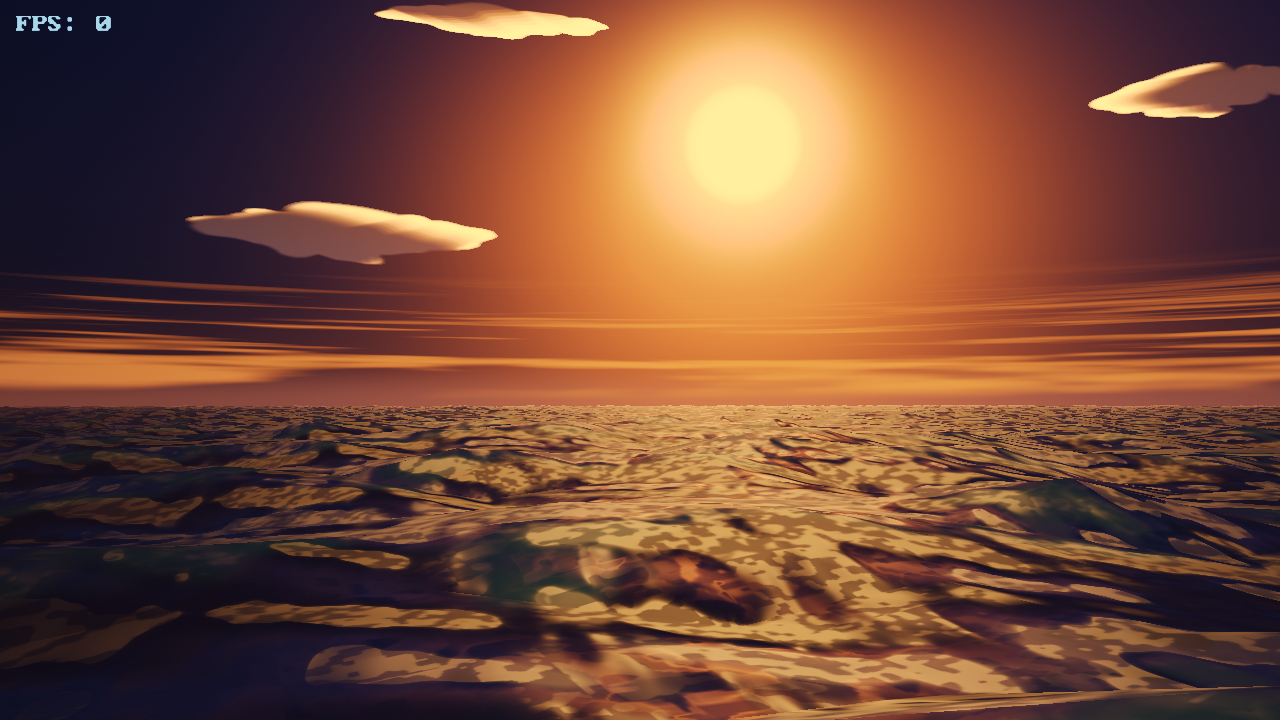
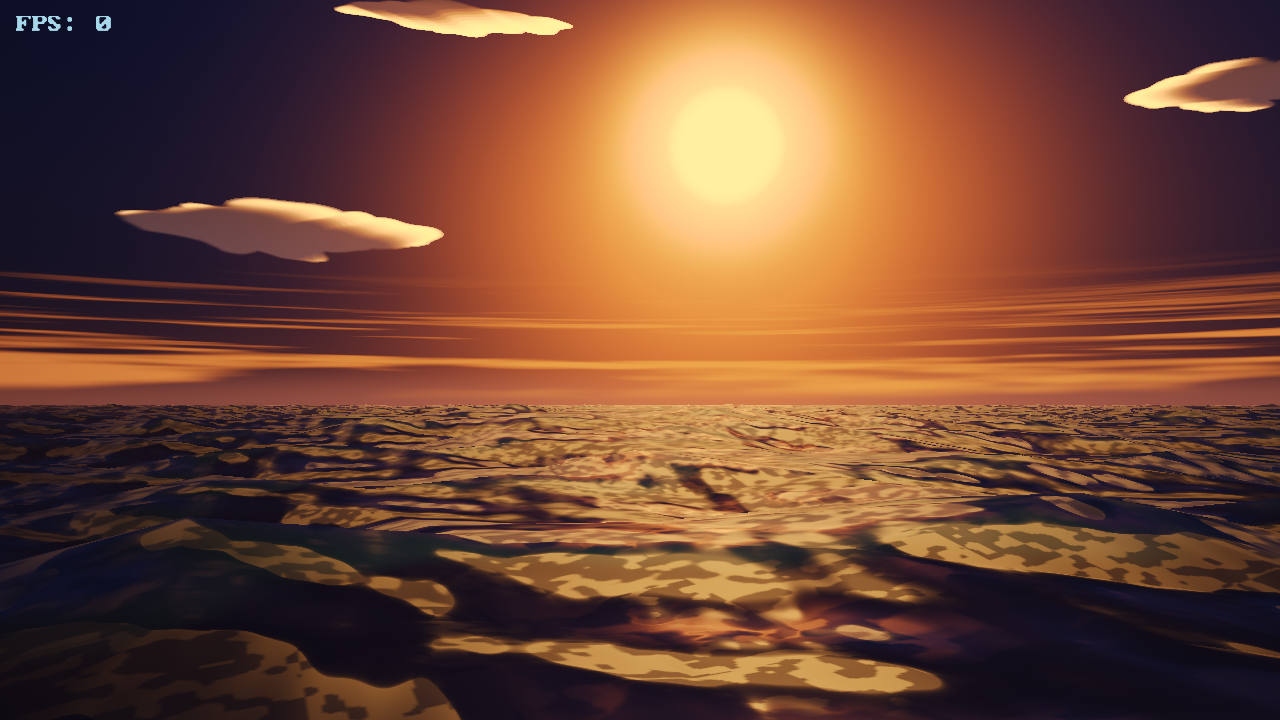
Narrow the sunlit sea column, and make the binary report what it is presenting
The reported sunlit patches were "too big", and Win+PrtScr was still returning
black after P24's borderless-fullscreen change.

The width complaint is a real, measurable defect: sunAlign is a cosine and the
warm gate was cos^3, which still returns half its value 37 degrees off-axis,
while offSun treated everything inside 63 degrees as fully sun-facing -- most of
the sea. Moving to cos^8 and a later off-sun transition takes the lit band from
22.1% to 18.6% of frame width with the sky control unmoved.

The capture problem is not solved by another guess. P24's SDL theory was never
verified and it has now failed once, so instead every scene prints the mode it
is actually presenting and main() prints a build id. The shaders load at
runtime from folders beside the exe, so a current exe next to a stale shader
directory renders a mixture of two builds -- which is also the most consistent
explanation for the reported frame, since no shader generation in this history
reproduces it. README now documents the remaining Windows cause, fullscreen
optimizations, and leads with the capture path that cannot fail.

diff --git a/REFERENCES.md b/REFERENCES.md
@@ -179,6 +179,102 @@ Realism takeaways applied:
   glazing bars over them. Emissive geometry is only believable if the frame behind it still exists —
   the bars and the sill are what stop a lit pane reading as a sticker.
 
+## BUILD-P25: the sunlit zone was a third of the sea wide, and the capture problem was not the one I thought
+
+Two reports, both second-hand this time: the sunlit water "still looks wrong,
+and the patches are too big", and Win+PrtScr on the user's machine *still*
+returns black after the P24 borderless-fullscreen change.
+
+### What I could not reproduce, stated first because it bounds everything else
+
+The reported frame shows large, hard-edged tan plates with near-white interiors
+covering roughly half the sea, right out to the frame edges. I could not
+produce that image from any shader generation in this repository:
+
+| shader version | sun column max luma | lit pixels in the top 10% of range | those pixels' std |
+| --- | --- | --- | --- |
+| `282ce90` (the "CT sparkles read as glitches" era) | 0.6988 | 0.43% | 0.0110 |
+| `b00d5de` (pre-P23) | 0.7580 | 0.51% | 0.0082 |
+| `7bf9113` (P23+P24, previous build) | 0.7622 | 0.57% | 0.0077 |
+| reported frame | near white | a large fraction | — |
+
+In all three of my renders only a few tenths of one percent of the sun column
+sits in its top decile, and those pixels are spread smoothly. The reported
+image is dominated by them. Resolution is not the explanation: rendered at
+1920x1080 (the size borderless fullscreen actually gives on a desktop) the lit
+fraction is 25.0% and the sun column max is 0.7832 — statistically the same as
+1280x720.
+
+So the reported frame is not something this repository produces at that moment
+in the animation. The most likely explanations, in order: the running exe sits
+beside a shader folder from an unrelated build; or the frame is from a
+different point in the 45 s animation than anything sampled here.
+
+That is exactly why this build adds the two startup lines in "the capture
+problem" below. Diagnosing a mixed exe/shader pair from pixels alone is not
+possible, and I should not have written P24's conclusion as though it were
+settled when it rested on the same unverified assumption.
+
+### The lit zone WAS genuinely too wide — that part is fixed
+
+Independent of the reproduction failure, the gate controlling how much of the
+sea receives warm sun light was too broad, and that is measurable directly from
+the shader rather than from the frame:
+
+    float sunAlign = max(dot(dirXZ, sunXZ), 0.0);   // cosine of the horizontal
+    float warmGate = pow(sunAlign, 3.0);            // angle to the sun
+    float offSun   = 1.0 - smoothstep(0.08, 0.45, sunAlign);
+
+`cos^3` still returns 0.5 at **37 degrees** off-axis, and `offSun` does not
+reach zero until **63 degrees**. With a ~75 degree horizontal field of view
+that is most of the sea being treated as sun-facing, which is precisely the
+"the lit zone is too big" complaint. Now `pow(sunAlign, 8.0)` and
+`smoothstep(0.15, 0.62, ...)` — same falloff shape, half-power point moved from
+37 degrees to about 25, and the off-sun transition starts later so the flanks
+of the column darken rather than staying lit.
+
+Measured, three phases each (t = 32/36/40), `scripts/p25agg.py`:
+
+| metric | P24 | P25 | delta |
+| --- | --- | --- | --- |
+| continuous lit band | 22.11% of frame width | 18.64% | **-15.7%** |
+| whole-water mean luma | 0.2560 | 0.2500 | -2.6% |
+| sky mean luma (control) | 0.3534 | 0.3538 | **+0.1%** |
+
+The column narrows by about a sixth and the sea loses 2.6% of its mean
+brightness, with the sky control unmoved — the light was taken off the flanks,
+not off the whole sea.
+
+### The capture problem: stop guessing, make the binary report itself
+
+P24's answer was a theory about what SDL does on Windows. It was not verified
+(there is no real fullscreen or DWM in the test environment, and the new code
+sits behind `if (!gWindowedMode)` so no headless render exercises it) and the
+user still gets a black capture, so the theory is not sufficient. Two things
+are added instead of a third guess:
+
+- Every scene prints what it is actually presenting, at startup:
+
+      Display: borderless fullscreen 1920x1080 | capture with Win+PrtScr, or --screenshot FILE
+
+  `windowed` there means the user passed `--windowed`/`--width` or is running a
+  different build, and that answers the question before any pixels are
+  compared.
+- `main()` prints `ElectroBench build P25 (2026-10-05)`. **The shaders load at
+  runtime from `shaders/pole`, `shaders/pool` and `shaders/ps14` next to the
+  exe**, so a current exe beside a stale shader folder renders a mixture of two
+  builds. That is the failure mode most consistent with "my frame looks nothing
+  like yours", and one line at startup settles which half is out of date.
+
+The README now also documents the remaining Windows-specific cause that is
+independent of SDL: **Settings → System → Display → Graphics → Options →
+Fullscreen optimizations = Off**. Windows still gives some "borderless" OpenGL
+apps a private swap chain, and the print-screen hotkey captures a surface with
+nothing composited into it.
+
+`--screenshot FILE` remains the path that cannot fail this way — it reads the
+framebuffer directly and never involves the compositor.
+
 ## BUILD-P24: the sunlit sea was a point-normal sample of a facet distribution, and Win+PrtScr caught a black screen
 
 The reported bug: "the zones lit up by the sun on the water are like noise" —

diff --git a/README.md b/README.md
@@ -193,20 +193,33 @@ make
 Controls : `F` toggles the automatic camera, long-click + move orbits, mouse wheel zooms, `R` re-drops
 the whole fleet, `ESC` quits.
 
-**Taking a screenshot of the running bench on Windows.** The bench presents
-borderless fullscreen by default — it fills the screen but stays a normal
-top-level window — so `Win`+`PrtScr` captures it normally. It used to request
-*exclusive* fullscreen, which hands the display to the OpenGL driver and leaves
-the desktop compositor with nothing to composite; `Win`+`PrtScr` then returned a
-black screen every time, while the bench itself looked fine.
+**Taking a screenshot of the running bench on Windows.** The bench prints one
+line at startup saying what it is actually doing:
 
-Two other capture paths, neither of which goes through the compositor:
+```
+Display: borderless fullscreen 1920x1080 | capture with Win+PrtScr, or --screenshot FILE
+```
+
+If that says **windowed**, you are looking at a different build (or you passed
+`--windowed` / `--width`) — check that first, because it is the single most
+common reason a capture goes black. If it says **borderless fullscreen** and
+`Win`+`PrtScr` *still* gives you a black rectangle, it is Windows, not the
+bench, and there are two things left to try, in order:
+
+1. **Turn off fullscreen optimisations for the exe.** Settings → System →
+   Display → Graphics → `ElectroBench` (or *Browse* to the exe) → Options →
+   set **Fullscreen optimizations** to **Off**. Windows otherwise still hands a
+   "borderless" OpenGL app a private swap chain, and the screen-capture hotkey
+   captures a surface that has nothing composited into it.
+2. **Run it windowed:** `./build/ElectroBench --windowed`. A normal top-level
+   window is always capturable.
+
+The reliable path never goes through the compositor at all:
 
 - `--screenshot FILE --shot-time S` writes a frame straight out of the
-  framebuffer, before the buffer swap, and needs no window manager at all. This
-  is what the committed screenshots in `docs/screenshots/` were made with.
-- `--windowed` runs in a normal resizable window if you would rather screenshot
-  a windowed run.
+  framebuffer, before the buffer swap. This is what the committed screenshots in
+  `docs/screenshots/` were made with, and it cannot come out black.
+- `--screenshot FILE --shot-times 6,20,38` writes several frames in one run.
 
 Note that borderless fullscreen sizes the window to your **desktop**, not to
 1280x720, so on a 1080p display the bench renders at 1080p. Pass `--width` /
